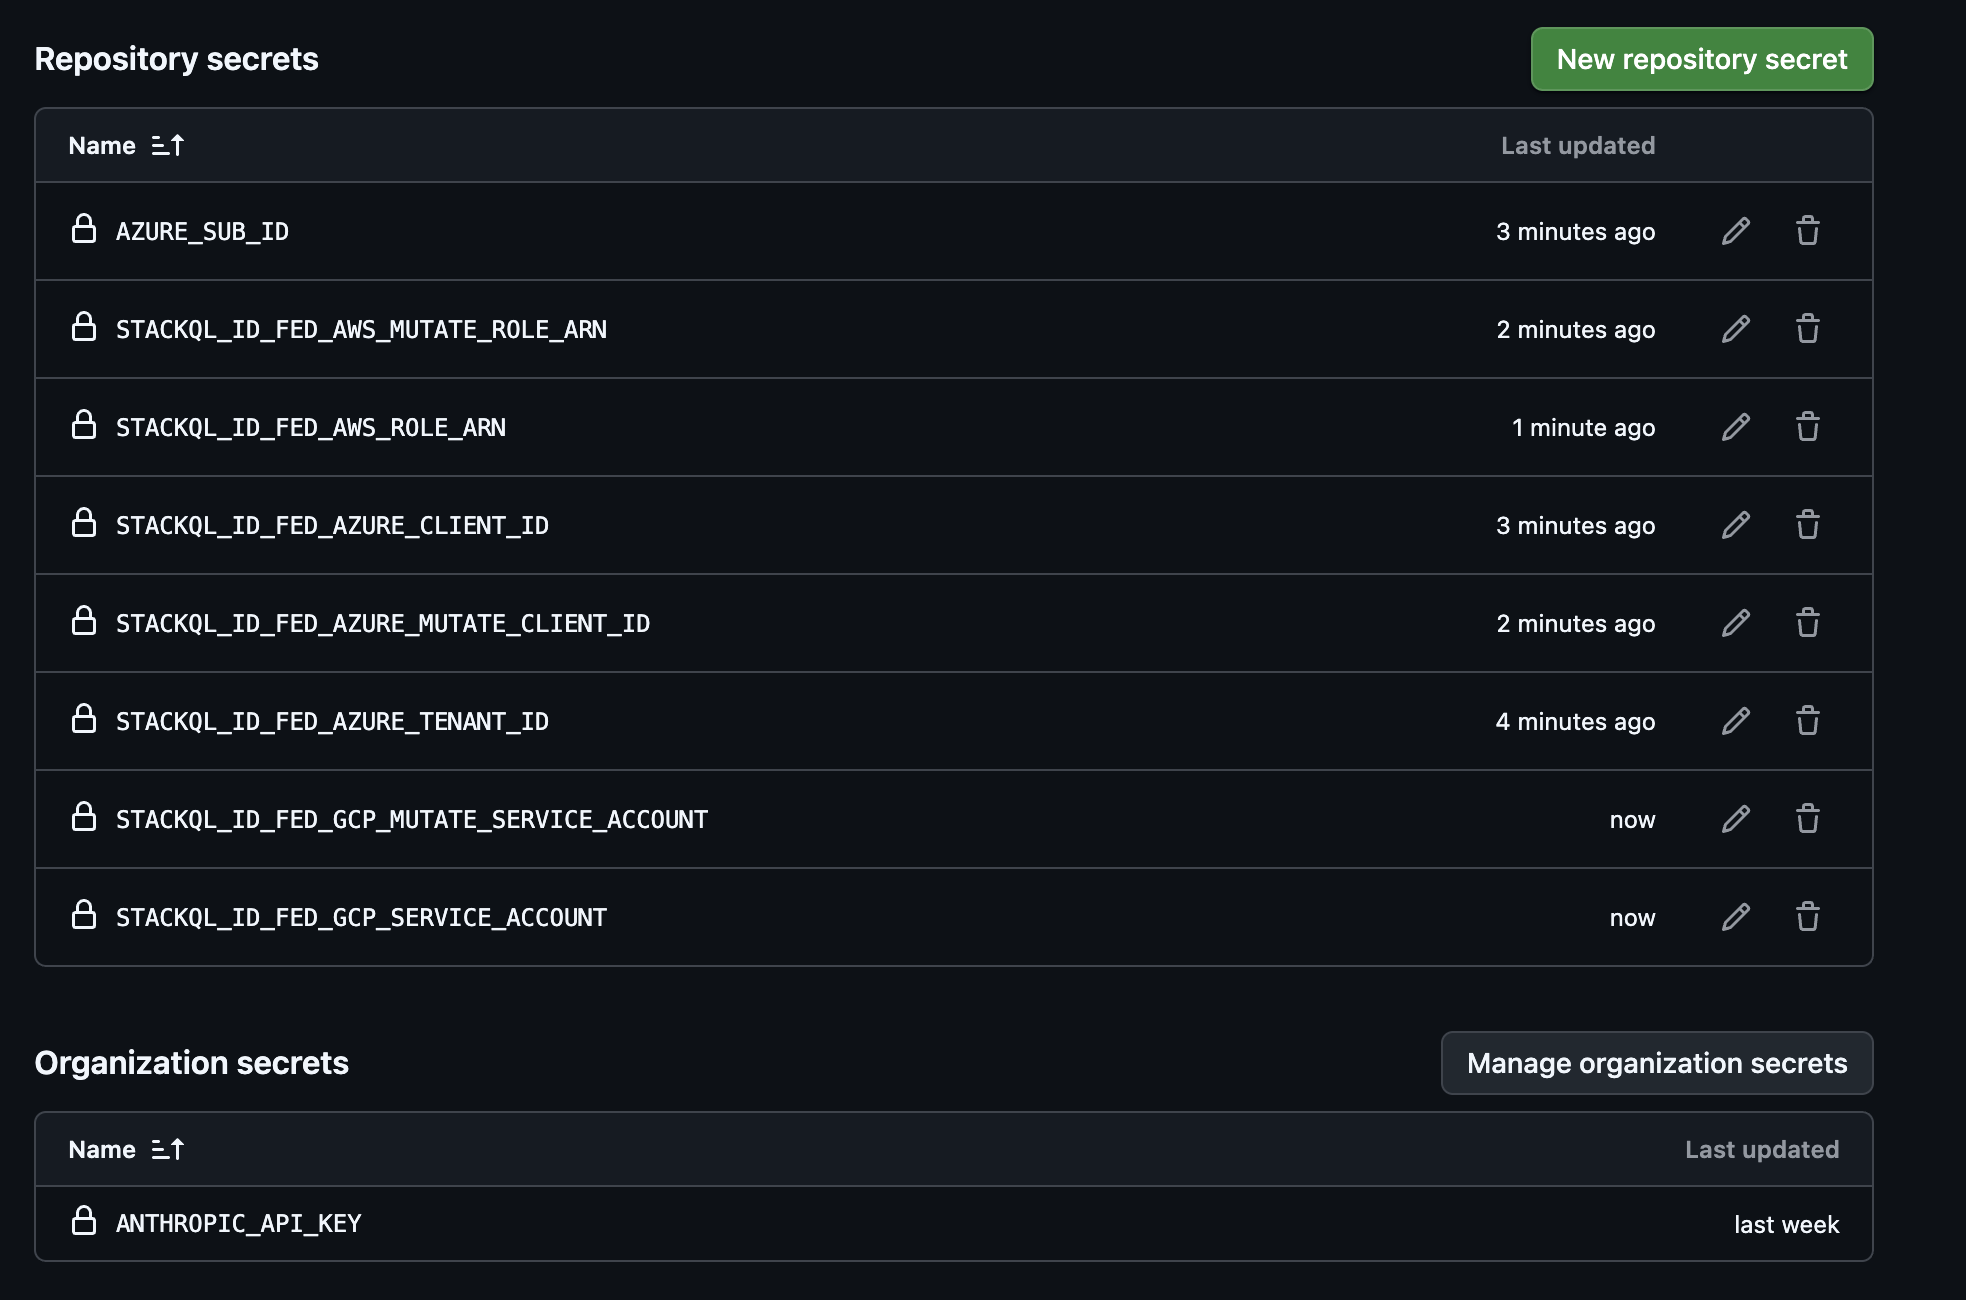
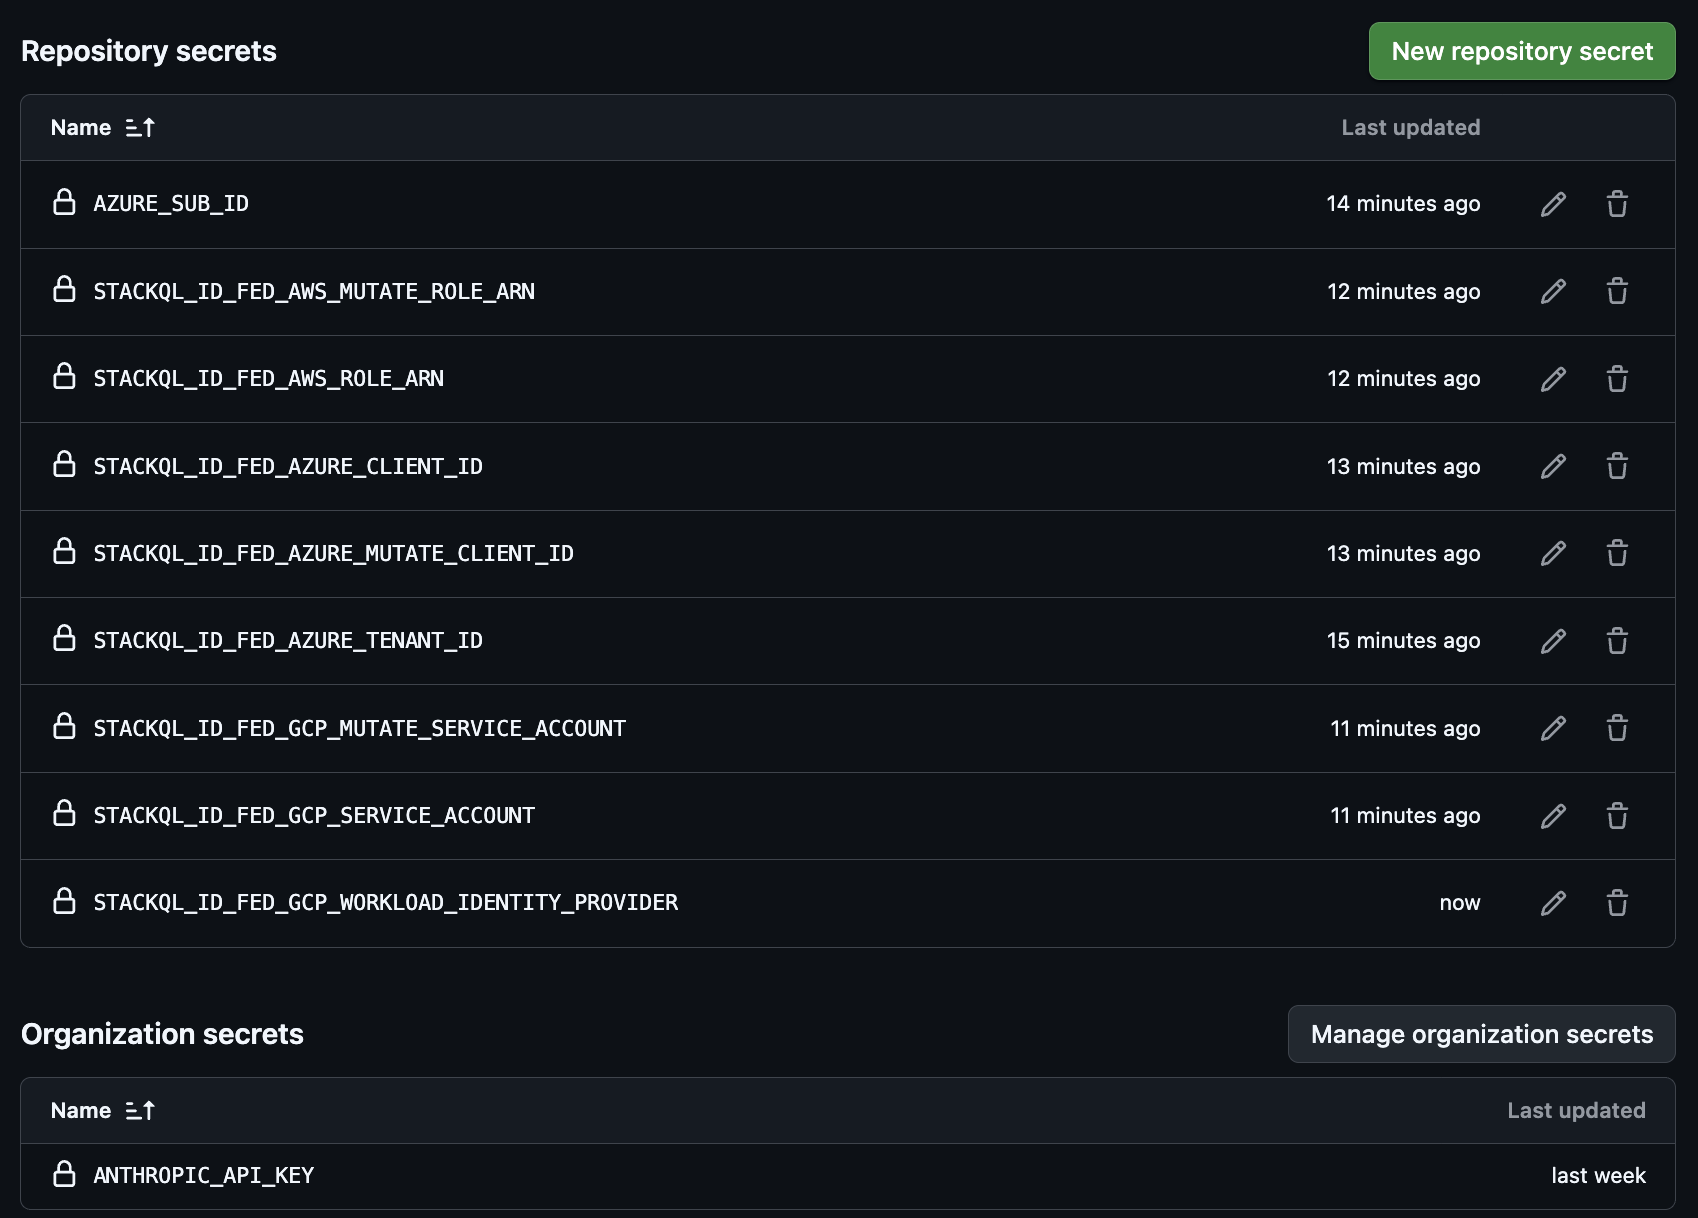
secrets-setup

diff --git a/cicd/onboarding/onboarding.md b/cicd/onboarding/onboarding.md
@@ -268,13 +268,13 @@ fi
 ✓ Done. Paste these into your GitHub repo (Settings → Secrets and variables → Actions → Variables):
 
   STACKQL_ID_FED_AZURE_TENANT_ID          =  e49b5ab7-17be-463f-b872-a6c13308d55b
-  AZURE_INTEGRATION_TESTING_SUB_ID        =  631d1c6d-2a65-43e7-93c2-688bfe4e1468
+  AZURE_SUB_ID                            =  631d1c6d-2a65-43e7-93c2-688bfe4e1468
   STACKQL_ID_FED_AZURE_CLIENT_ID          =  76182c05-1633-44db-af63-60d268b8d28b
   STACKQL_ID_FED_AZURE_MUTATE_CLIENT_ID   =  ef5da92a-ff6d-49fb-912e-9f18a49f03bf
 
 or via gh CLI:
   gh variable set STACKQL_ID_FED_AZURE_TENANT_ID        --body 'e49b5ab7-17be-463f-b872-a6c13308d55b'
-  gh variable set AZURE_INTEGRATION_TESTING_SUB_ID      --body '631d1c6d-2a65-43e7-93c2-688bfe4e1468'
+  gh variable set AZURE_SUB_ID                          --body '631d1c6d-2a65-43e7-93c2-688bfe4e1468'
   gh variable set STACKQL_ID_FED_AZURE_CLIENT_ID        --body '76182c05-1633-44db-af63-60d268b8d28b'
   gh variable set STACKQL_ID_FED_AZURE_MUTATE_CLIENT_ID --body 'ef5da92a-ff6d-49fb-912e-9f18a49f03bf'
 ```
@@ -282,7 +282,7 @@ or via gh CLI:
 Expected output includes these values to add in your GitHub repo Variables:
 
 - `STACKQL_ID_FED_AZURE_TENANT_ID`
-- `AZURE_INTEGRATION_TESTING_SUB_ID`
+- `AZURE_SUB_ID`
 - `STACKQL_ID_FED_AZURE_CLIENT_ID`
 - `STACKQL_ID_FED_AZURE_MUTATE_CLIENT_ID`
 
@@ -302,9 +302,18 @@ Expected output includes these values to add in your GitHub repo Variables:
 - On the deployment's **Outputs** blade, copy `tenantId`, `subscriptionId`, `clientId`, and `mutateClientId`.
 - In your fork → Variables, add:
   - `STACKQL_ID_FED_AZURE_TENANT_ID`         = the tenantId
-  - `AZURE_INTEGRATION_TESTING_SUB_ID`       = the subscriptionId
+  - `AZURE_SUB_ID`                            = the subscriptionId
   - `STACKQL_ID_FED_AZURE_CLIENT_ID`         = the clientId (audit identity — read-only; federated for main + pull_request subjects)
   - `STACKQL_ID_FED_AZURE_MUTATE_CLIENT_ID`  = the mutateClientId (mutate identity — read + delete on finops resources; federated for main-branch context only)
+
+Following all of the credentials setup, then your Github actions secrets should appear like Figure S-1.
+
+
+![Secrets required](/assets/img/secrets-required.png)
+
+**Figure S-1**: Secrets complement required.
+
+---
 
 ### 6. Trigger the first run
 